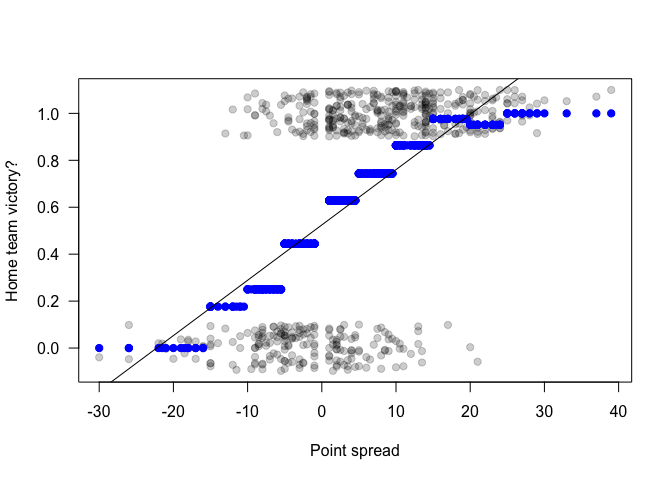
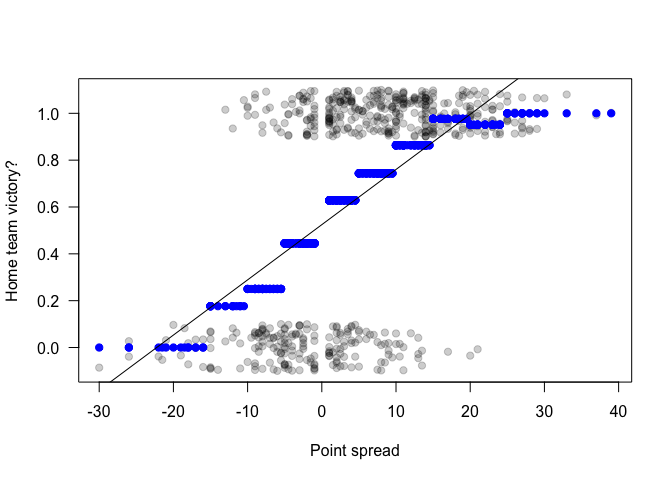
updates to bballbets walkthrough

diff --git a/teaching/r/bballbets/bballbets.md b/teaching/r/bballbets/bballbets.md
@@ -5,11 +5,12 @@ layout: page
 ### Logistic regression
 
 In this walk-through, you'll learn about the logistic regression model.
-Key ideas:  
-\* Fit a linear probability model and recognize its shortcoming.  
+Learning goals:  
+\* Fit a linear probability model and recognize its shortcomings.  
 \* Fit a logistic regression model.  
 \* Compute standard errors and confidence intervals using both
-bootstrapping and the central limit theorem.
+bootstrapping and the central limit theorem.  
+\* Make predictions from a logistic regression model.
 
 Data files:  
 \* [bballbets.csv](bballbets.csv): Data on college basketball games.
@@ -172,8 +173,8 @@ of at least two options. First, we can bootstrap:
     confint(boot1)
 
     ##        name       lower     upper level method  estimate margin.of.error
-    ## 1 Intercept -0.09519652 0.3289035  0.95 stderr 0.1168535      0.21205003
-    ## 2    spread  0.12615598 0.1806608  0.95 stderr 0.1534084      0.02725238
+    ## 1 Intercept -0.09762385 0.3274133  0.95 stderr 0.1148947      0.21251858
+    ## 2    spread  0.12632166 0.1794258  0.95 stderr 0.1528737      0.02655207
 
 We can also appeal to R's summary function, which computes confidence
 intervals under a normal approximation to the coefficients arising from
@@ -184,8 +185,45 @@ the central limit theorem:
     ## Waiting for profiling to be done...
 
     ##                   2.5 %    97.5 %
-    ## (Intercept) 0.001569779 0.4584173
-    ## spread      0.141979865 0.2037390
+    ## (Intercept) -0.04064309 0.3882956
+    ## spread       0.12564430 0.1817760
 
 In this case, the confidence intervals are similar for the two
 techniques.
+
+### Making predictions from a logit model
+
+Suppose we want to predict the probability of a home-team victory when
+the point-spread is 5 points in the visiting team's favor (that is,
+`spread = -5`). One way to do this is "by hand," using the equation of a
+logistic regression model:
+
+    mybeta = coef(glm1)
+    new_x = -5
+    psi = mybeta[1] + mybeta[2]*new_x  # linear predictor
+    predicted_prob = exp(psi)/{1+exp(psi)}
+    predicted_prob
+
+    ## (Intercept) 
+    ##   0.3571208
+
+Thus the predicted probability of a home-team victory, given a point
+spread of 5 points in favor of the visiting team, is about 34%.
+
+We can also use the predict function to streamline this process, which
+is especially useful if we want to generate predictions at multiple
+values of x:
+
+    new_x = data.frame(spread=c(-5, -2, 7, 14))
+    predict(glm1, newdata=new_x, type='response')
+
+    ##         1         2         3         4 
+    ## 0.3571208 0.4674315 0.7758795 0.9096309
+
+We can also use the `predict` function to get the values of the linear
+predictor (i.e. before it is run through the link function):
+
+    predict(glm1, newdata=new_x, type='link')
+
+    ##          1          2          3          4 
+    ## -0.5878827 -0.1304587  1.2418134  2.3091361
